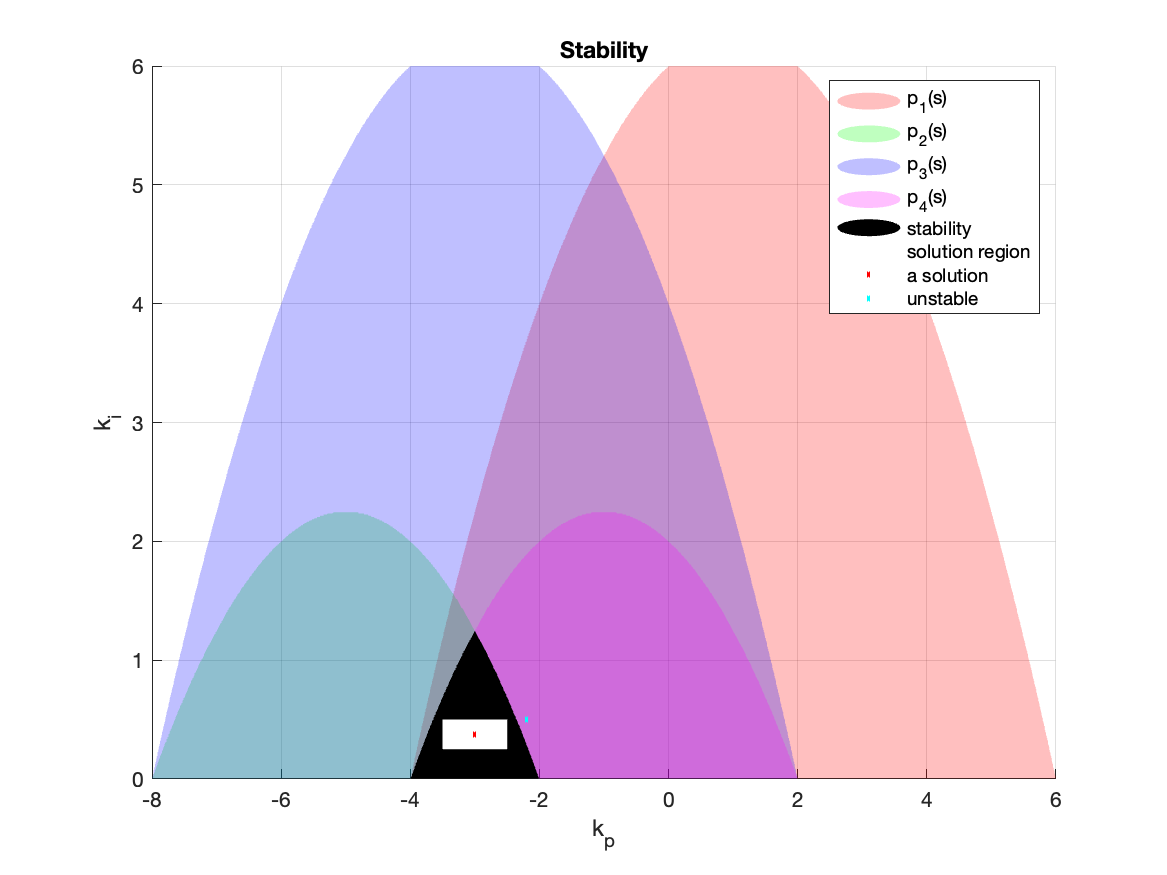
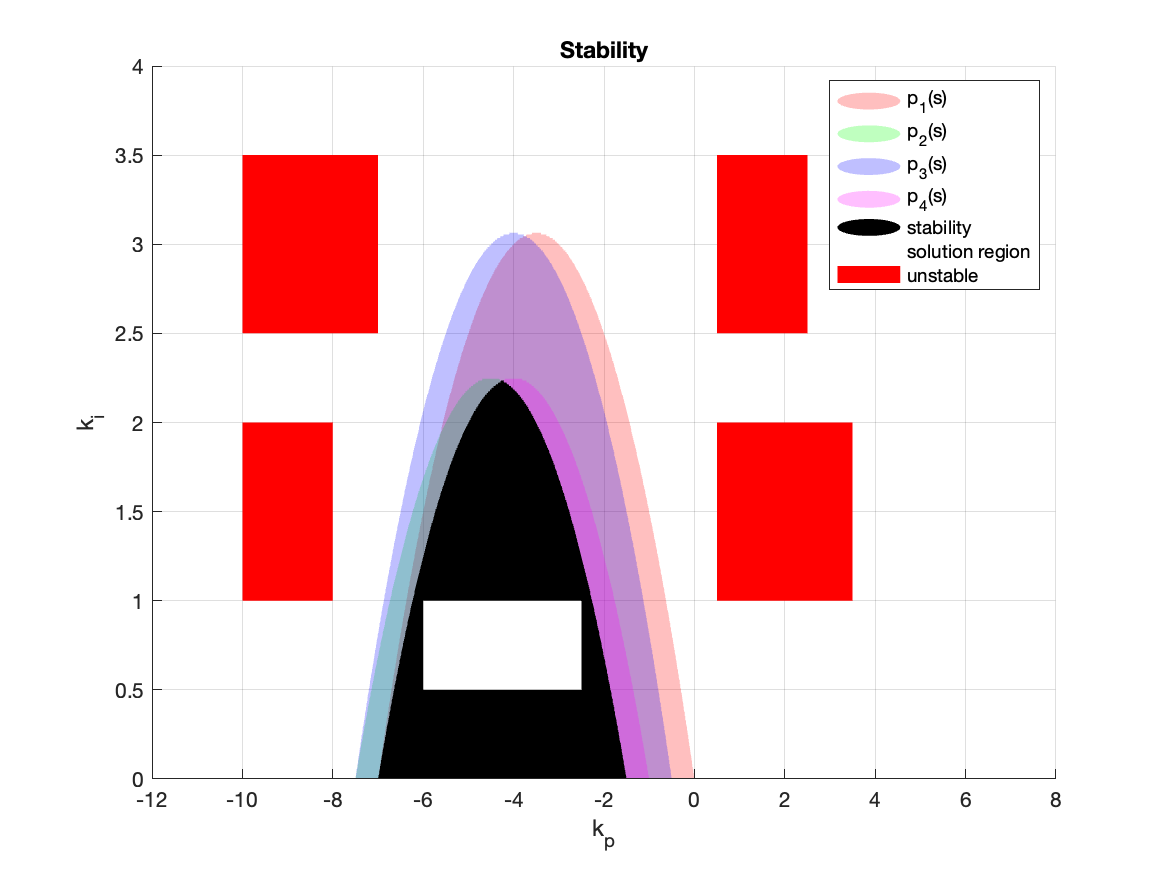
example improved

diff --git a/pid/qdesign.m b/pid/qdesign.m
@@ -30,8 +30,8 @@ cond3=simplifyFraction(cond3);
 cond4=routh(coeffs(pol4,s,'all'));
 cond4=simplifyFraction(cond4);
 
-kpvec=-8:0.01:6;
-kivec=0:0.01:6;
+kpvec=-12:0.01:8;
+kivec=0:0.01:4;
 [kpmat,kimat]=meshgrid(kpvec,kivec);
 
 temp=(cond1(1)>0)&(cond1(2)>0)&(cond1(3)>0)&(cond1(4)>0)&(cond1(5)>0);
@@ -49,8 +49,8 @@ stab4=fcond4(kpmat,kimat);
 stabTot=stab1&stab2&stab3&stab4;
 
 
-solReg=@(kp,ki)(kp>=kpsolmin)&(kp<=kpsolmax)&(ki>=kisolmin)&(ki<=kisolmax);
-stabSol=solReg(kpmat,kimat);
+solReg=@(kp,ki,kvec)(kp>=kvec(1))&(kp<=kvec(2))&(ki>=kvec(3))&(ki<=kvec(4));
+stabSol=solReg(kpmat,kimat,kstable);
 
 figure(1);clf;hold on;grid on;
 xlabel("k_p");ylabel("k_i");title("Stability");
@@ -66,13 +66,37 @@ contourf(kpmat, kimat, stab4, [0.5 1], 'LineColor','none',...
 contourf(kpmat, kimat, stabTot, [0.5 1], 'LineColor','none',...
 'FaceColor','k','FaceAlpha',1);
 
-fill([kpsolmin kpsolmax kpsolmax kpsolmin], ...
-     [kisolmin kisolmin kisolmax kisolmax], ...
+% fill([kpsolmin kpsolmax kpsolmax kpsolmin], ...
+%      [kisolmin kisolmin kisolmax kisolmax], ...
+%% stable
+fill([kstable(1) kstable(2) kstable(2) kstable(1)], ...
+     [kstable(3) kstable(3) kstable(4) kstable(4)], ...
      [1 1 1], 'FaceAlpha', 1, 'EdgeColor', 'none');
-plot(mean([kpsolmin,kpsolmax]),mean([kisolmin,kisolmax]),'rx','LineWidth',2,'MarkerSize',2);
 
-plot(-2.2,0.5,'cx','LineWidth',2,'MarkerSize',2);
+%% unstable-1
+kunstable=kunstable1;
+fill([kunstable(1) kunstable(2) kunstable(2) kunstable(1)],...
+[kunstable(3) kunstable(3) kunstable(4) kunstable(4)], ...
+     [1 0 0], 'FaceAlpha', 1, 'EdgeColor', 'none');
 
-legend("p_1(s)","p_2(s)","p_3(s)","p_4(s)","stability","solution region","a solution","unstable")
+%% unstable-2
+kunstable=kunstable2;
+fill([kunstable(1) kunstable(2) kunstable(2) kunstable(1)],...
+[kunstable(3) kunstable(3) kunstable(4) kunstable(4)], ...
+     [1 0 0], 'FaceAlpha', 1, 'EdgeColor', 'none');
+
+%% unstable-3
+kunstable=kunstable3;
+fill([kunstable(1) kunstable(2) kunstable(2) kunstable(1)],...
+[kunstable(3) kunstable(3) kunstable(4) kunstable(4)], ...
+     [1 0 0], 'FaceAlpha', 1, 'EdgeColor', 'none');
+
+%% unstable-4
+kunstable=kunstable4;
+fill([kunstable(1) kunstable(2) kunstable(2) kunstable(1)],...
+[kunstable(3) kunstable(3) kunstable(4) kunstable(4)], ...
+     [1 0 0], 'FaceAlpha', 1, 'EdgeColor', 'none');
+
+legend("p_1(s)","p_2(s)","p_3(s)","p_4(s)","stability","solution region","unstable")
 
 print("stability.png","-dpng","-r150")

diff --git a/pid/qvalidate2.m b/pid/qvalidate2.m
@@ -6,8 +6,8 @@ p0vec=p0min+(p0max-p0min)*(10*x1+x0)/99;
 p1vec=p1min+(p1max-p1min)*(10*x1+x0)/99;
 
 % unstable 
-kp=-2.2;
-ki=0.5;
+kp=mean(kunstable4(1:2));
+ki=mean(kunstable4(3:4));
 
 Fs=tf([kp ki],[1 0]);
 figure(1);clf;hold on;grid on;
@@ -24,7 +24,7 @@ for p1=p1vec
         [y,t]=step(Ts,200);
         col=[i/length(p0vec),0,0];
         plot(ax1,t,y,'Color',col);
-        if ~isstable(Ts)
+        if isstable(Ts)
             disp("p0:"+string(p0)+" p1:"+string(p1))
         end
     end

diff --git a/pid/qvalidate1.m b/pid/qvalidate1.m
@@ -6,8 +6,8 @@ p0vec=p0min+(p0max-p0min)*(10*x1+x0)/99;
 p1vec=p1min+(p1max-p1min)*(10*x1+x0)/99;
 
 % center stable
-kp=kpsolmax;
-ki=kisolmax;
+kp=mean(kstable(1:2));
+ki=mean(kstable(3:4));
 
 Fs=tf([kp ki],[1 0]);
 figure(1);clf;hold on;grid on;
@@ -29,7 +29,7 @@ for p1=p1vec
         end
     end
 end
-xlim(ax1,[0,200]);
-ylim(ax1,[0,2]);
+xlim(ax1,[0,40]);
+ylim(ax1,[0,1.1]);
 
 print("center_stable.png","-dpng","-r150")

diff --git a/pid/qdefs.m b/pid/qdefs.m
@@ -1,12 +1,14 @@
 x0=0:9;
 x1=0:9;
 
-p1max=5;
-p1min=3;
-p0max=8;
-p0min=4;
+p1max=3.5; %5
+p1min=3; %3
+p0max=7.5; %8
+p0min=7; %4
 
-kpsolmin=-2.5;
-kpsolmax=-3.5;
-kisolmin=0.25;
-kisolmax=0.5;
+% kpmin kpmax kimin kimax
+kstable=[-2.5 -6 0.5 1];
+kunstable1=[0.5,3.5,1,2];
+kunstable2=[-10,-8,1,2];
+kunstable3=[-10,-7,2.5,3.5];
+kunstable4=[0.5,2.5,2.5,3.5];
